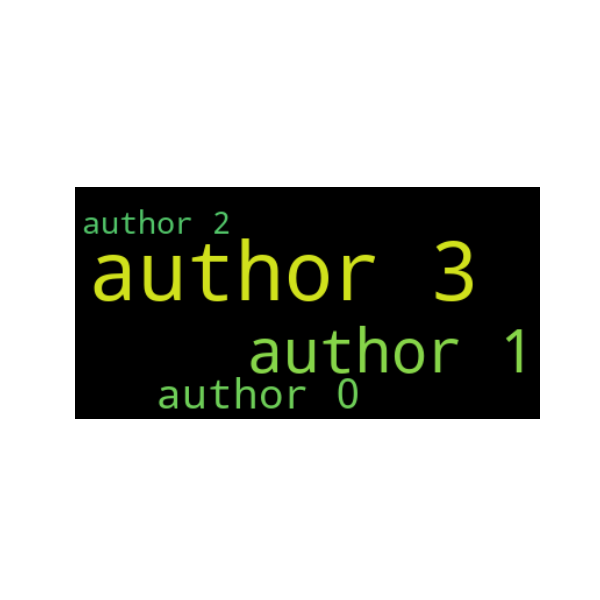
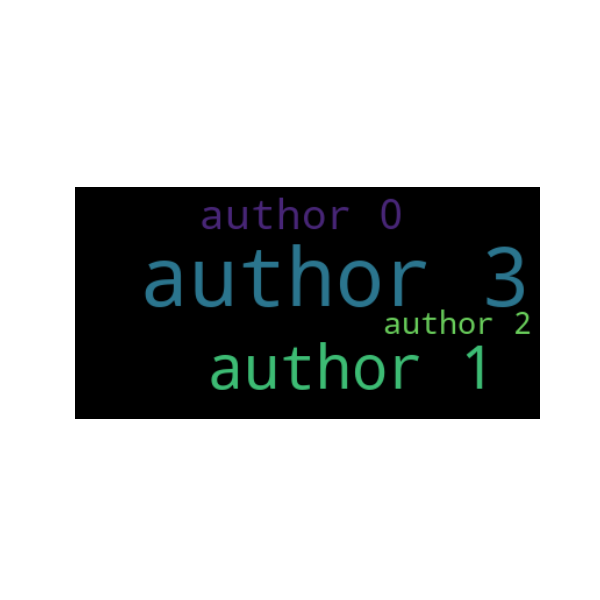
occurrence map

Changed region(s): [[0.12, 0.33, 0.9, 0.69], [0.63, 0.33, 0.69, 0.39]]

diff --git a/techminer/maps.py b/techminer/maps.py
@@ -6,10 +6,144 @@ TechMiner.Maps
 
 
 """
-import pandas as pd
+import matplotlib.pyplot as plt
 import networkx as nx
+import pandas as pd
 
 
 class Map:
     def __init__(self):
-        pass
+        self._graph = nx.Graph()
+
+    def _compute_graph_layout(self):
+        path_length = nx.shortest_path_length(self._graph)
+        distances = pd.DataFrame(index=self._graph.nodes(), columns=self._graph.nodes())
+        for row, data in path_length:
+            for col, dist in data.items():
+                distances.loc[row, col] = dist
+        distances = distances.fillna(distances.max().max())
+        return nx.kamada_kawai_layout(self._graph, dist=distances.to_dict())
+
+    def add_node(self, node_for_adding, **attr):
+        """
+        """
+        self._graph.add_node(node_for_adding, **attr)
+
+    def add_nodes_from(self, nodes_for_adding, **attr):
+        """
+        """
+        self._graph.add_nodes_from(self, nodes_for_adding, **attr)
+
+    def add_edge(self, u_of_edge, v_of_edge, **attr):
+        """
+        """
+        self._graph.add_edge(self, u_of_edge, v_of_edge, **attr)
+
+    def add_edges_from(self, ebunch_to_add, **attr):
+        """
+        """
+        self._graph().add_edges_from(self, ebunch_to_add, **attr)
+
+    def ocurrence_map(
+        self,
+        terms,
+        docs,
+        edges,
+        label_terms,
+        label_docs,
+        term_props={},
+        doc_props={},
+        edge_props={},
+        label_term_props={},
+        label_docs_props={},
+    ):
+        """Cluster map for ocurrence and co-ocurrence matrices.
+    
+        >>> terms = ["A", "B", "C", "D"]
+        >>> docs = ["doc#0", "doc#1", "doc#2", "doc#3", "doc#4", "doc#5"]
+        >>> edges = [
+        ...     ("A", "doc#0"),
+        ...     ("A", "doc#1"),
+        ...     ("B", "doc#1"),
+        ...     ("A", "doc#2"),
+        ...     ("B", "doc#2"),
+        ...     ("C", "doc#2"),
+        ...     ("B", "doc#3"),
+        ...     ("B", "doc#4"),
+        ...     ("D", "doc#4"),
+        ...     ("D", "doc#5"),
+        ... ]
+        >>> label_docs = {
+        ...     "doc#0": 2,
+        ...     "doc#1": 1,
+        ...     "doc#2": 1,
+        ...     "doc#3": 1,
+        ...     "doc#4": 1,
+        ...     "doc#5": 1,
+        ... }
+        >>> label_terms = {
+        ...     "A": "Author A",
+        ...     "B": "Author B",
+        ...     "C": "Author C",
+        ...     "D": "Author D",
+        ... }
+        >>> nxmap = Map()
+        >>> nxmap.ocurrence_map(
+        ...     terms,
+        ...     docs,
+        ...     edges,
+        ...     label_terms,
+        ...     label_docs,
+        ...     term_props={"node_color": "red"},
+        ...     label_docs_props={"font_color": "lightblue"},
+        ...     #
+        ...     label_term_props=dict(ma="left", rotation=0, fontsize=10, disp=3, bbox=None),
+        ... )        
+        >>> plt.savefig('guide/images/network_occurrence_map.png')
+        
+        .. image:: images/network_occurrence_map.png
+            :width: 600px
+            :align: center
+
+
+        """
+        plt.clf()
+
+        self._graph.clear()
+        self._graph.add_nodes_from(terms)
+        self._graph.add_nodes_from(docs)
+        self._graph.add_edges_from(edges)
+
+        layout = self._compute_graph_layout()
+
+        nx.draw_networkx_nodes(self._graph, pos=layout, nodelist=terms, **term_props)
+        nx.draw_networkx_nodes(self._graph, pos=layout, nodelist=docs, **doc_props)
+        nx.draw_networkx_edges(self._graph, pos=layout, **edge_props)
+        nx.draw_networkx_labels(
+            self._graph, pos=layout, labels=label_docs, **label_docs_props
+        )
+        self.draw_network_labels(pos=layout, labels=label_terms, **label_term_props)
+
+        plt.axis("off")
+
+    def draw_network_labels(self, pos, labels, disp=1, fontdict=None, **kwargs):
+
+        x_left, x_right = plt.xlim()
+        y_left, y_right = plt.ylim()
+        delta_x = (x_right - x_left) * disp / 100
+        delta_y = (y_right - y_left) * disp / 100
+
+        default = dict(
+            fontsize=12,
+            ha="left",
+            va="bottom",
+            bbox=dict(boxstyle="square", ec="lightgray", fc="white",),
+        )
+        props = {**default, **kwargs}
+
+        for node in self._graph.nodes:
+            if node in labels:
+                x_pos, y_pos = pos[node]
+                plt.text(
+                    x_pos + delta_x, y_pos + delta_y, labels[node], **props,
+                )
